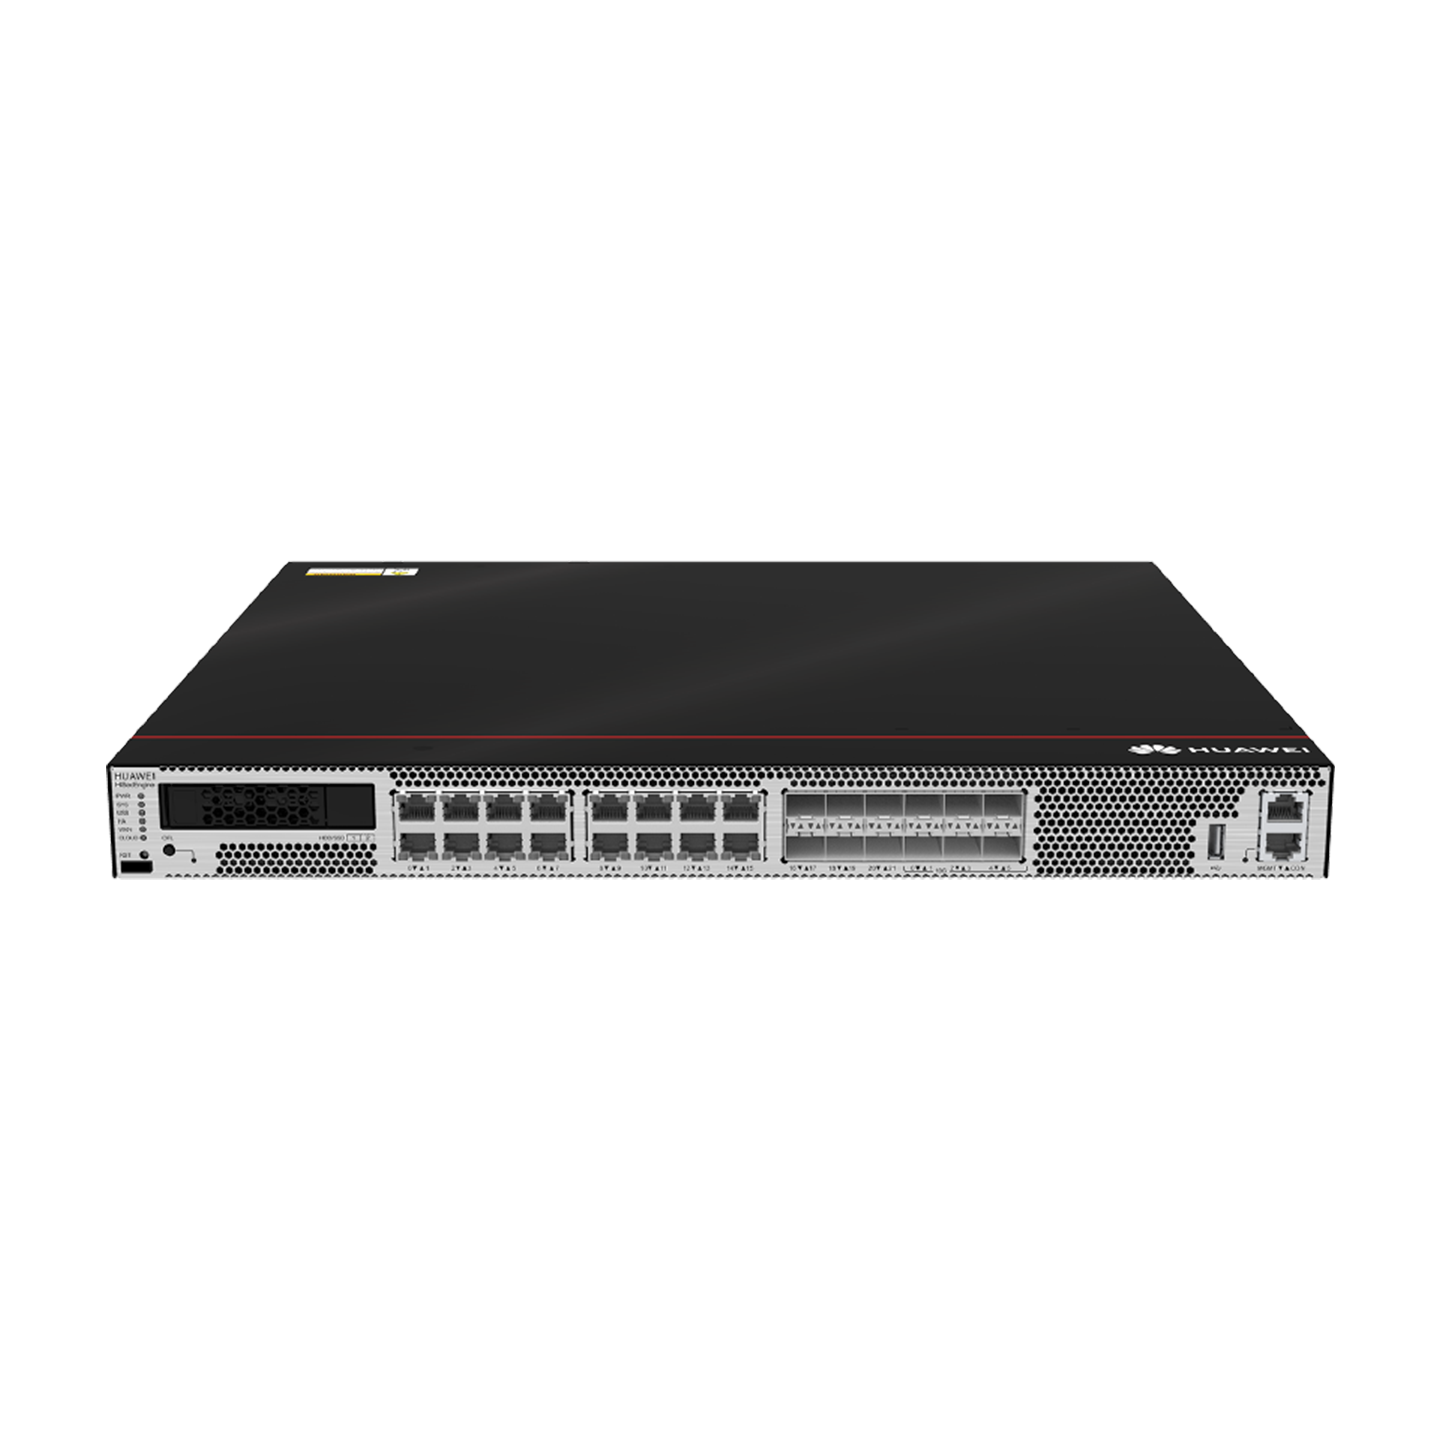
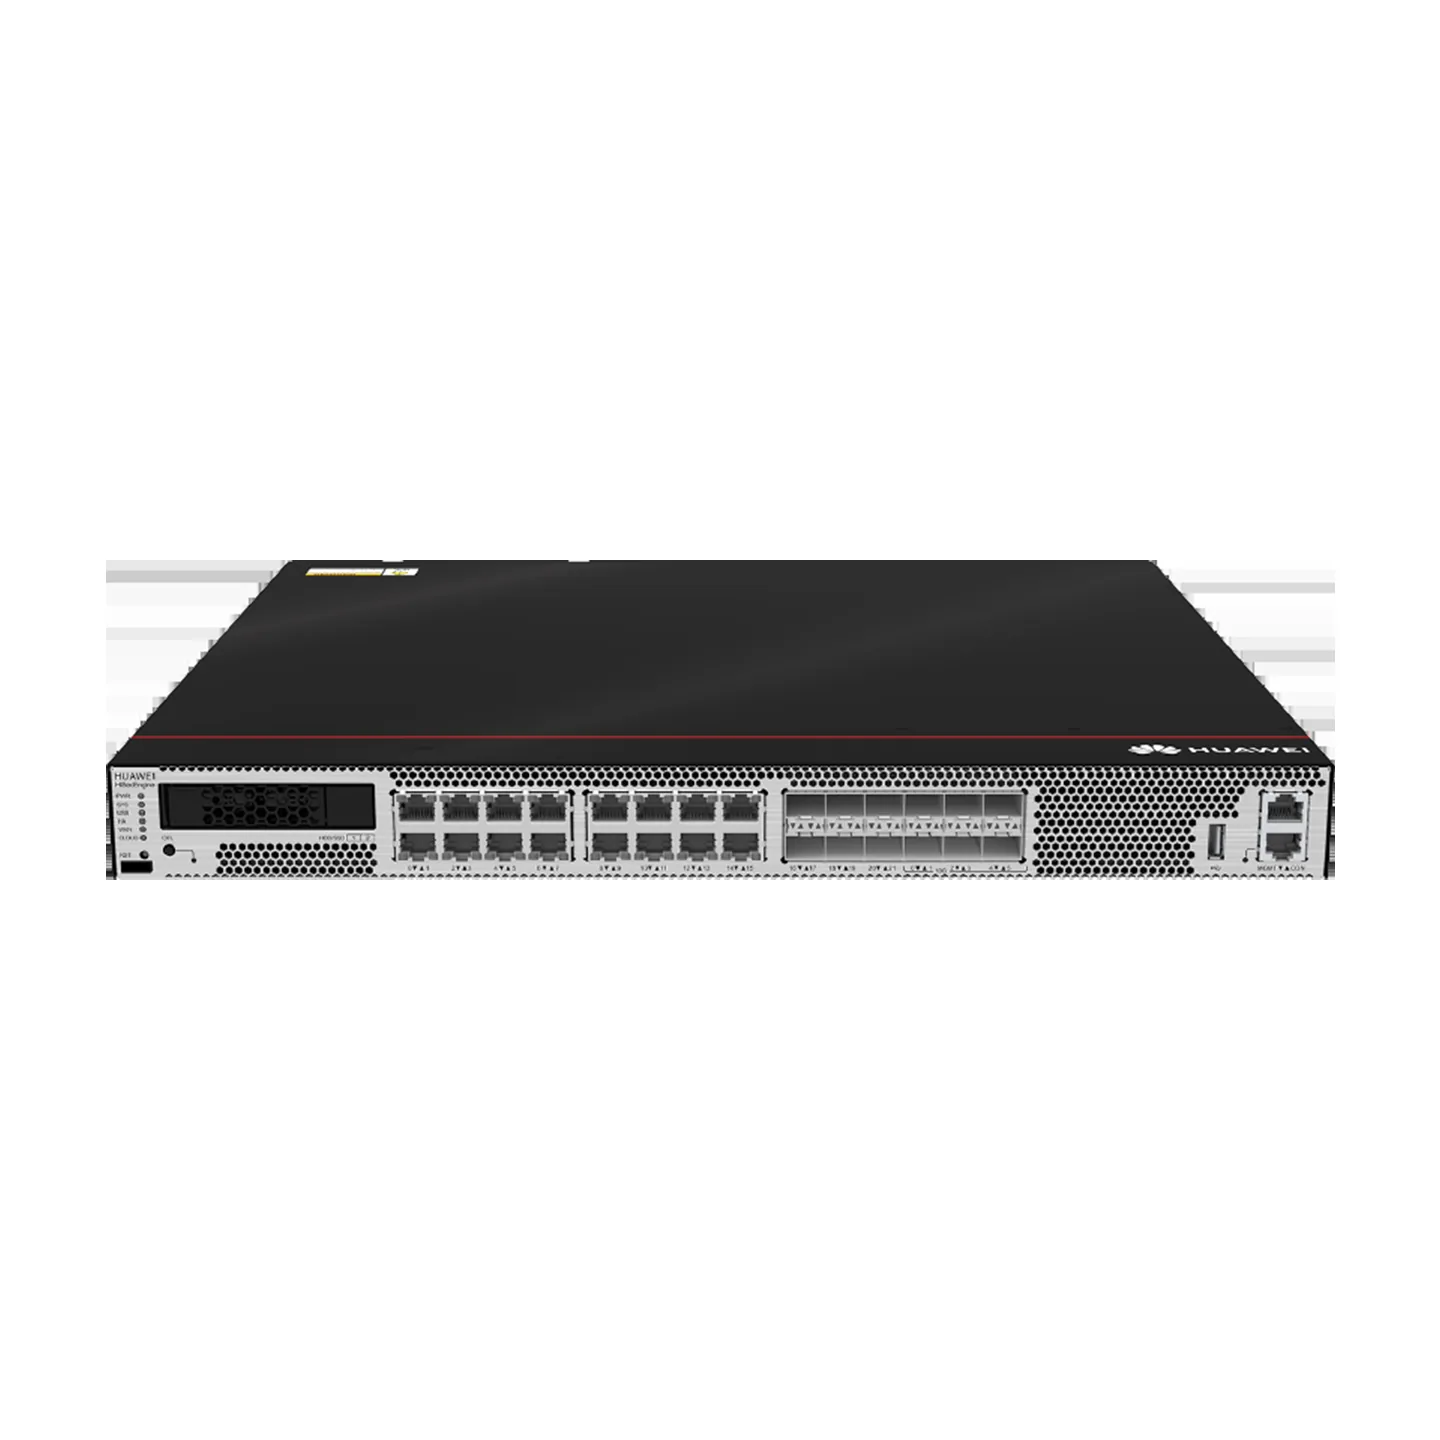
seo(boutique): perf images (WebP), maillage depuis les 528 pages géo, llms.txt boutique
- images produit converties en WebP pour l'affichage (1,17 Mo -> 457 Ko) tout en
  conservant les JPG/PNG pour og:image (compatibilité WhatsApp/Facebook/LinkedIn)
- <img> avec width/height + decoding=async sur boutique, fiches produit et pages SEO
  (moins de CLS, meilleur LCP)
- les 528 pages géo existantes (/services, /secteurs, /pays) pointent maintenant vers
  /boutique/pays/<pays> dans « Pour aller plus loin » (liens internes vers la boutique)
- llms.txt : section Boutique (catégories, produits, pays desservis) pour les moteurs
  de réponse IA
- tests 16/16, build 1016 URLs, shells prerendus, verify-sitemap OK

diff --git a/src/data/products.js b/src/data/products.js
@@ -39,7 +39,10 @@ export const products = [
     name: "Huawei NetEngine 8000 M14",
     category: "Routeurs",
     configNote: "Neuf · 2× IPU-1T2-A · 20× 10GbE",
-    image: "/products/netengine-8000-m14.jpg",
+    image: "/products/netengine-8000-m14.webp",
+    ogImage: "/products/netengine-8000-m14.jpg",
+    imgW: 1600,
+    imgH: 1067,
     short:
       "Routeur de coeur opérateur 5U livré configuré et neuf : 2 cartes IPU-1T2-A, 2 PIC 20 ports 10GbE au total, optiques 10G LR incluses.",
     specs: [
@@ -64,7 +67,10 @@ export const products = [
     name: "Huawei NetEngine 8000 M8",
     category: "Routeurs",
     configNote: "Selon cartes & licences",
-    image: "/products/netengine-8000-m8.jpg",
+    image: "/products/netengine-8000-m8.webp",
+    ogImage: "/products/netengine-8000-m8.jpg",
+    imgW: 2560,
+    imgH: 823,
     short:
       "Routeur modulaire de coeur/agrégation 3U pour opérateurs et grands réseaux d'entreprise.",
     specs: [
@@ -87,7 +93,10 @@ export const products = [
     name: "Huawei NetEngine 8000 M1A",
     category: "Routeurs",
     configNote: "Selon configuration & licences",
-    image: "/products/netengine-8000-m1a.jpg",
+    image: "/products/netengine-8000-m1a.webp",
+    ogImage: "/products/netengine-8000-m1a.jpg",
+    imgW: 1973,
+    imgH: 361,
     short:
       "Routeur compact haute densité (1U) pour accès, backhaul et services opérateur.",
     specs: [
@@ -110,7 +119,10 @@ export const products = [
     name: "Huawei CloudEngine S5735-S24T4X",
     category: "Switches",
     configNote: "Plusieurs unités disponibles",
-    image: "/products/huawei-switch-s5735.jpg",
+    image: "/products/huawei-switch-s5735.webp",
+    ogImage: "/products/huawei-switch-s5735.jpg",
+    imgW: 1178,
+    imgH: 901,
     short:
       "Switch d'accès couche 3 (24× GE + 4× 10GE SFP+) pour réseau d'entreprise.",
     specs: [
@@ -135,7 +147,10 @@ export const products = [
     name: "Huawei 2288X V5 (FusionServer Pro)",
     category: "Serveurs",
     configNote: "2× Xeon Silver 4210 · 128 Go · 8× 600 Go",
-    image: "/products/huawei-server-2288x-v5.jpg",
+    image: "/products/huawei-server-2288x-v5.webp",
+    ogImage: "/products/huawei-server-2288x-v5.jpg",
+    imgW: 1234,
+    imgH: 958,
     short:
       "Serveur rack 2U bi-processeur configuré, prêt pour virtualisation, base de données et applications métier.",
     specs: [
@@ -160,7 +175,10 @@ export const products = [
     name: "Huawei USG6625E-AC (HiSecEngine NGFW)",
     category: "Sécurité & Pare-feu",
     configNote: "Hors licences",
-    image: "/products/usg6625e.png",
+    image: "/products/usg6625e.webp",
+    ogImage: "/products/usg6625e.png",
+    imgW: 1440,
+    imgH: 1440,
     short:
       "Pare-feu nouvelle génération pour entreprises et data centers.",
     specs: [
@@ -184,7 +202,10 @@ export const products = [
     name: "Huawei TN13OAU (OAU1)",
     category: "Optique & WDM/OTN",
     configNote: "À l'unité",
-    image: "/products/huawei-tn13oau.jpg",
+    image: "/products/huawei-tn13oau.webp",
+    ogImage: "/products/huawei-tn13oau.jpg",
+    imgW: 721,
+    imgH: 397,
     short:
       "Carte amplificateur optique C-band (EDFA) pour systèmes de transport WDM/OTN Huawei OSN.",
     specs: [

diff --git a/src/pages/ProductPage.jsx b/src/pages/ProductPage.jsx
@@ -97,7 +97,7 @@ export default function ProductPage() {
         path={seo.path}
         title={seo.title}
         description={seo.description}
-        image={product.image}
+        image={product.ogImage || product.image}
         jsonLd={[productJsonLd, breadcrumbJsonLd, productFaqJsonLd]}
       />
 
@@ -114,7 +114,7 @@ export default function ProductPage() {
       <section className="product-page">
         <div className="site-shell product-page-grid">
           <div className="product-page-media">
-            <img src={product.image} alt={product.name} />
+            <img src={product.image} alt={`${product.name} — ${product.category} Huawei`} width={product.imgW} height={product.imgH} decoding="async" />
           </div>
           <div className="product-page-body">
             <p className="product-cat">{product.category}</p>
@@ -219,7 +219,7 @@ export default function ProductPage() {
                 <article className="product-card" key={rel.slug}>
                   <Link to={`/boutique/${rel.slug}`} className="product-media" aria-label={`Voir la fiche ${rel.name}`}>
                     {rel.badge && <span className="product-badge">{rel.badge}</span>}
-                    <img src={rel.image} alt={rel.name} loading="lazy" />
+                    <img src={rel.image} alt={`${rel.name} — ${rel.category} Huawei`} width={rel.imgW} height={rel.imgH} loading="lazy" decoding="async" />
                   </Link>
                   <div className="product-body">
                     <p className="product-cat">{rel.category}</p>

diff --git a/src/pages/BoutiqueSeoPage.jsx b/src/pages/BoutiqueSeoPage.jsx
@@ -155,7 +155,7 @@ export default function BoutiqueSeoPage() {
         path={page.path}
         title={page.title}
         description={page.description}
-        image={page.product?.image || "/logo.png"}
+        image={page.product?.ogImage || page.product?.image || "/logo.png"}
         imageAlt={page.h1}
         jsonLd={jsonLd}
       />
@@ -213,7 +213,7 @@ export default function BoutiqueSeoPage() {
                       aria-label={`Voir ${product.name} ${page.country ? `${page.country.prep} ${page.country.name}` : ""}`}
                     >
                       {product.badge && <span className="product-badge">{product.badge}</span>}
-                      <img src={product.image} alt={`${product.name} — ${product.category}`} loading="lazy" />
+                      <img src={product.image} alt={`${product.name} — ${product.category} Huawei`} width={product.imgW} height={product.imgH} loading="lazy" decoding="async" />
                     </Link>
                     <div className="product-body">
                       <p className="product-cat">{product.category}</p>

diff --git a/src/pages/Boutique.jsx b/src/pages/Boutique.jsx
@@ -137,7 +137,7 @@ export default function Boutique() {
                     aria-label={`Voir la fiche ${product.name}`}
                   >
                     {product.badge && <span className="product-badge">{product.badge}</span>}
-                    <img src={product.image} alt={product.name} loading="lazy" />
+                    <img src={product.image} alt={`${product.name} — ${product.category} Huawei`} width={product.imgW} height={product.imgH} loading="lazy" decoding="async" />
                   </Link>
                   <div className="product-body">
                     <p className="product-cat">{product.category}</p>

diff --git a/src/pages/GeoLandingPage.jsx b/src/pages/GeoLandingPage.jsx
@@ -302,6 +302,9 @@ export default function GeoLandingPage() {
                 <Link to={page.relatedArticle.to} className="text-blue-600 hover:underline">
                   {page.relatedArticle.label}
                 </Link>
+                <Link to={`/boutique/pays/${country.slug}`} className="text-blue-600 hover:underline">
+                  Matériel réseau Huawei — achat et livraison : {country.prep} {country.name}
+                </Link>
                 {!isPays && (
                   <Link to="/work" className="text-blue-600 hover:underline">
                     Nos réalisations
